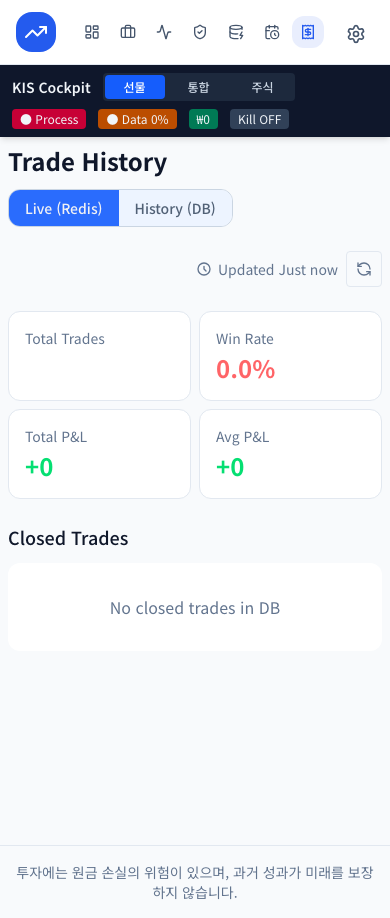
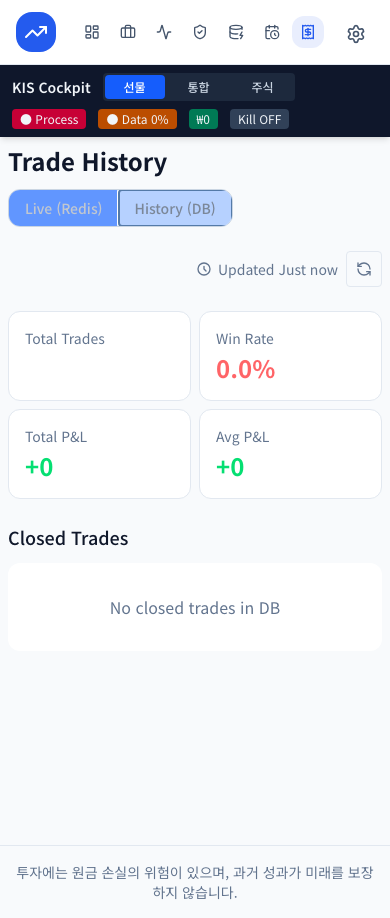
Complete roadmap follow-up code quality tasks

Changed region(s): [[0.0, 0.183, 0.6154, 0.244]]

diff --git a/services/trading/metrics_sync.py b/services/trading/metrics_sync.py
@@ -11,13 +11,17 @@ def sync_open_positions_metric(metrics: Any, position_tracker: Any) -> int | Non
     if metrics is None or position_tracker is None:
         return None
 
-    positions = getattr(position_tracker, "positions", None)
-    if not isinstance(positions, Iterable):
-        open_positions = 0
+    count = getattr(position_tracker, "position_count", None)
+    if isinstance(count, int):
+        open_positions = count
     else:
-        open_positions = sum(
-            1 for position in positions if getattr(position, "is_open", True)
-        )
+        positions = getattr(position_tracker, "positions", None)
+        if not isinstance(positions, Iterable):
+            open_positions = 0
+        else:
+            open_positions = sum(
+                1 for position in positions if getattr(position, "is_open", True)
+            )
 
     open_positions = max(0, open_positions)
     metrics.record_position_change(open_positions)

diff --git a/tests/unit/services/test_metrics_sync.py b/tests/unit/services/test_metrics_sync.py
@@ -17,6 +17,20 @@ def test_sync_open_positions_metric_no_position_tracker_no_action():
     metrics.record_position_change.assert_not_called()
 
 
+def test_sync_open_positions_metric_prefers_tracker_position_count():
+    metrics = Mock()
+    tracker = SimpleNamespace(
+        position_count=3,
+        positions=[
+            SimpleNamespace(is_open=True),
+            SimpleNamespace(is_open=False),
+        ],
+    )
+
+    assert sync_open_positions_metric(metrics, tracker) == 3
+    metrics.record_position_change.assert_called_once_with(3)
+
+
 def test_sync_open_positions_metric_counts_open_and_default_open_positions():
     metrics = Mock()
     tracker = SimpleNamespace(

diff --git a/docs/PROJECT_STATUS.md b/docs/PROJECT_STATUS.md
@@ -69,11 +69,24 @@ shared strategy entry gates, table-driven registry registration, centralized
 runtime defaults, centralized dashboard query intervals, Strategy Builder
 reducer/YAML serializer extraction, `/trades` page componentization, broker
 position verification extraction, and `LLMConfig.from_yaml` helper extraction.
-Focused backend and frontend tests were added for each extracted surface. The
-remaining high-value maintainability work is further orchestrator decomposition,
-one broker-verifier delegation guard test, optional strategy-level cooldown/close
-guardrail tests, and refreshed Workbench screenshot/accessibility evidence after
-the `/trades` refactor is running.
+Focused backend and frontend tests were added for each extracted surface. At
+that checkpoint, the remaining high-value maintainability work was further
+orchestrator decomposition, one broker-verifier delegation guard test, optional
+strategy-level cooldown/close guardrail tests, and refreshed Workbench
+screenshot/accessibility evidence after the `/trades` refactor was running.
+
+**2026-06-25** - Follow-up code-quality roadmap priorities completed.
+The remaining high-priority follow-ups from the Cross-Cutting Code Quality
+section are implemented: open-position metric synchronization moved to
+`services/trading/metrics_sync.py` while preserving the `position_count`
+contract, `_verify_positions_with_broker` now has a delegation guard test,
+`momentum_breakout` trend-mode cooldown and `opening_volume_surge` post-close
+behavior are covered by strategy-level guardrail tests, and `/trades`
+desktop/mobile Playwright screenshots were refreshed after the component/hook
+split. The remaining maintainability backlog is further decomposition of the
+orchestrator initialization, recovery, and execution setup regions plus careful
+runtime-default extraction only where ownership and paper/live behavior remain
+unchanged.
 
 **2026-06-25** - Quant Ops Workbench UI/UX QA evidence captured.
 Playwright fallback verification covered `/risk`, `/coverage`, `/trades`,
@@ -183,7 +196,8 @@ Full per-asset open list with owners/gates is in [ROADMAP.md](ROADMAP.md). Top i
 - **Both:** Paper/live E2E smoke with Redis + SQLite only after each cutover;
   position-recovery drill after process restart; MLflow restart
   (`localhost:5000` down); refresh Workbench desktop/mobile screenshot/accessibility
-  QA artifacts when those routes change; continue decomposing the remaining
-  high-complexity orchestrator/runtime modules after the broker-verification
-  extraction. Use `scripts/ops/ops_readiness_check.py` as the offline checklist;
-  live service confirmation remains external.
+  QA artifacts when those routes change; continue decomposing the orchestrator
+  initialization, recovery, and execution setup regions after the
+  broker-verification and metrics-sync extractions. Use
+  `scripts/ops/ops_readiness_check.py` as the offline checklist; live service
+  confirmation remains external.

diff --git a/docs/ROADMAP.md b/docs/ROADMAP.md
@@ -95,9 +95,17 @@ execution lifecycle -> backtest-vs-paper comparison -> promotion gate
 - Futures broker/ledger reconciliation is extracted from the 8k-line
   orchestrator into `services/trading/broker_verification.py` with isolated unit
   tests.
+- Open-position metrics synchronization is extracted into
+  `services/trading/metrics_sync.py`; the helper preserves the existing
+  `position_count` contract and falls back to list-style open-position counting.
+- `_verify_positions_with_broker` now has a focused delegation test that locks
+  the dependency handoff to `BrokerPositionVerifier`.
 - `LLMConfig.from_yaml` is split into private YAML loading/section/config-dict
   helpers with characterization tests for absolute/relative loading, legacy
   stock/futures fallbacks, and env overrides.
+- Strategy-level guardrail tests now lock `momentum_breakout` trend-mode
+  cooldown behavior and `opening_volume_surge` post-close behavior when no
+  explicit cutoff is configured.
 
 ### Completed maintainability milestones
 
@@ -111,22 +119,21 @@ execution lifecycle -> backtest-vs-paper comparison -> promotion gate
 | Builder state/YAML serializer extraction | ✅ done | `strategy-builder-ui/src/lib/builder/` |
 | Trades page component/hook split | ✅ done | `strategy-builder-ui/src/app/trades/` |
 | Broker verification extraction | ✅ done | `services/trading/broker_verification.py` |
+| Orchestrator metrics sync helper | ✅ done | `services/trading/metrics_sync.py` |
+| Broker verifier delegation guard | ✅ done | `tests/unit/trading/test_orchestrator_broker_verifier_delegation.py` |
+| Strategy close/cooldown guardrails | ✅ done | `tests/unit/strategy/entry/test_entry_gate_integration_momentum_opening.py` |
+| `/trades` screenshot/interaction QA refresh | ✅ done | [testing/quant-ops-workbench-2026-06-25.md](testing/quant-ops-workbench-2026-06-25.md) |
 | LLM YAML loader helper split | ✅ done | `tests/unit/llm/test_config_yaml_loading.py` |
 
 ### Open next-steps
 
 - Continue decomposing `services/trading/orchestrator.py`; broker verification
-  is extracted, but initialization, recovery, execution setup, and metrics
-  remain high-complexity regions.
-- Add a narrow orchestrator delegation test that locks the
-  `_verify_positions_with_broker` dependency handoff to `BrokerPositionVerifier`.
-- Add optional guardrail tests for `momentum_breakout` trend-mode cooldown and
-  `opening_volume_surge` post-close behavior so the no-new-close-window contract
-  remains explicit at the strategy level.
+  and metrics sync are extracted, but initialization, recovery, and execution
+  setup remain high-complexity regions.
 - Keep extracting shared runtime defaults from remaining large runtime modules
   only when it does not blur ownership or change live/paper behavior.
-- Run browser/screenshot QA again after `/trades` changes are deployed or when
-  the Workbench visual surface changes materially.
+- Refresh browser/screenshot QA whenever the Workbench visual surface changes
+  materially.
 
 ---
 

diff --git a/docs/testing/quant-ops-workbench-2026-06-25.md b/docs/testing/quant-ops-workbench-2026-06-25.md
@@ -11,6 +11,12 @@ visual pass used the installed Playwright CLI/runtime as the fallback browser
 automation path. Chromium was installed locally with `playwright install
 chromium` before the run.
 
+The `/trades` screenshots were refreshed after the page was split into shell,
+tab-list, live/history components, and hooks. The focused refresh used the
+Python Playwright runtime to verify both desktop and mobile route rendering,
+keyboard navigation from `Live (Redis)` to `History (DB)`, focus movement to the
+selected tab, and zero captured browser console errors.
+
 ## Viewports
 
 | Name | Size |